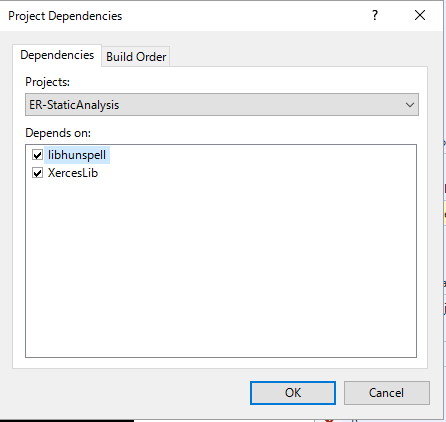
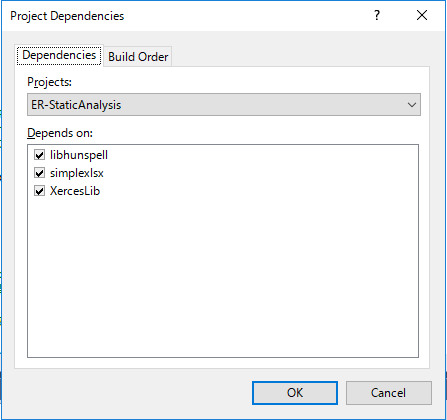
Change README.md

diff --git a/README.md b/README.md
@@ -61,13 +61,13 @@ safer.exe --erfile=./sample/bad-test.a5er --cofile=./sample/test-command.xml --o
   1. Example command : ` git.exe clone --recursive https://github.com/asugeno/safer.git . `
 1. Open the "safer/safer.sln" by "Visual Studio 2013" (e.g. "Visual Studio Express 2013 for Windows Desktop")
 1. Please step on following procedure below in Visual Studio.
-  1. Add libhunspell and XercesLib project to solution of Visual Studio.
+  1. Add "libhunspell", "simplexlsx" and "XercesLib" project to solution of Visual Studio.
     1. In Solution Explorer, right-click the "safer" solution, click Add, and then click Existing Project.
     1. In the Add Existing Project dialog box, select Hunspell and Xerces-C++ project then click OK.
   1. Change the project Dependencies.
     1. In Solution Explorer, right-click the ER-StaticAnalysis solution , click Build Dependencies, and then click Project Dependencies.
     ![ProjectDependencies](image/ProjectDependencies.png)
-    1. In Project Dependencies window. To check a box libhunspell and XercesLib in "Depends on".
+    1. In Project Dependencies window. To check a box "libhunspell", "simplexlsx" and "XercesLib" in "Depends on".
     ![ProjectDependenciesMenu](image/ProjectDependenciesMenu.png)
   1. Add reference in ER-StaticAnalysis project.
     1. In Solution Explorer, right-click the "ER-StaticAnalysis project". And Click "Properties". 
@@ -75,14 +75,14 @@ safer.exe --erfile=./sample/bad-test.a5er --cofile=./sample/test-command.xml --o
     1. In ER-StaticAnalysis Property Pages window, Click the "Reference" under "Common Properties".
     ![ProjectReference2](image/ProjectReference2.png)
     1. And click "Add New Reference".
-    1. In "Add Reference" window, To check a box libhunspell and XercesLib. And click "OK".
+    1. In "Add Reference" window, To check a box "libhunspell", "simplexlsx" and "XercesLib". And click "OK".
     ![ProjectReference3](image/ProjectReference3.png)
     1. In ER-StaticAnalysis Property Pages window, Switch to "true" at "Copy Local Satellite Assemblies", "Reference Assembly Output", "Link Library Dependencies", "User Library Dependency Inputs"
-      1. Perform the same step as described above to "libhunspell".
+      1. Perform the same step as described above to "libhunspell" and "simplexlsx".
     ![ProjectReference2](image/ProjectReference2.png)
 1. Rename file
-  1. Change the file name "hunvisapi.h.in" to "hunvisapi.h" in libhunspell dir
-1. Change output dir on "XercesLib" project.
+  1. Change the file name "hunvisapi.h.in" to "hunvisapi.h" in "libhunspell" dir
+1. Change output dir on "XercesLib project".
   1. In Solution Explorer, right-click the "XercesLib project". And Click "Properties". 
   ![XercesProjectSetting1](image/XercesProjectSetting1.png)
   1. In "XercesLib Properties" window, Click "General" under the "Configuration Properties". And change the "Output Directory" value to "$(SolutionDir)$(Configuration)".
